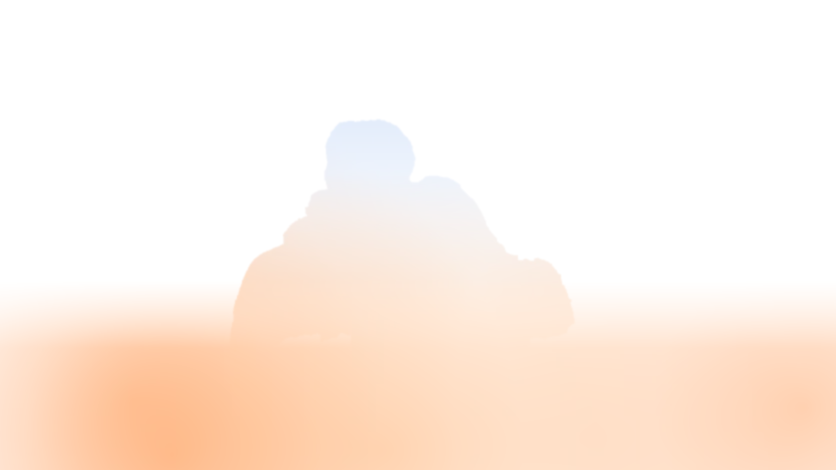
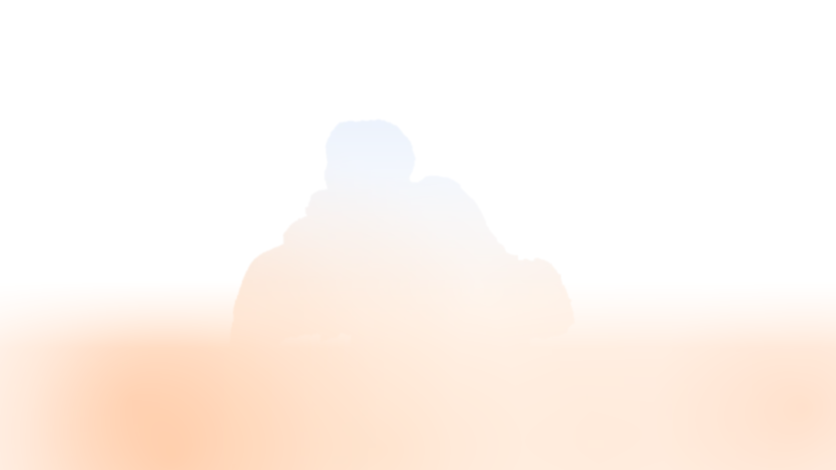
Lá thư bay vụt qua thay vì đóng mở; làm dịu cảnh ngắm tuyết (tuyết, ánh nến, ánh ấm, giấy)
Claude-Session: https://claude.ai/code/session_018LWP6QAxse55v6Pm2E99MN

Changed region(s): [[0.0311, 0.7149, 0.5598, 1.0], [0.9019, 0.7745, 1.0, 0.9532]]

diff --git a/src/styles.css b/src/styles.css
@@ -835,7 +835,7 @@ canvas.mb-dancer, canvas.mb-shadow { position: absolute; }
 /* cảnh ngắm tuyết: tuyết, hơi nước, sao băng nằm sau kính (sau lưng hai người nhờ mặt nạ) */
 .snow-scene { animation: none; background: #0b1226; }
 .sw-img { position: absolute; inset: 0; width: 100%; height: 100%; user-select: none; pointer-events: none; }
-.sw-top { opacity: 0; transition: opacity 1s ease-in-out; }
+.sw-top { opacity: 0; transition: opacity 1.6s ease-in-out; }
 .sw-top.on { opacity: 1; }
 .sw-fx { position: absolute; inset: 0; pointer-events: none; -webkit-mask-size: 100% 100%; mask-size: 100% 100%; -webkit-mask-repeat: no-repeat; mask-repeat: no-repeat; }
 .sw-cv { position: absolute; left: 0; top: 0; width: 100%; height: 100%; pointer-events: none; }
@@ -847,25 +847,25 @@ canvas.mb-dancer, canvas.mb-shadow { position: absolute; }
 .snow-scene.lite .sw-fog { opacity: .85; }
 /* tắt đèn ở cảnh ngắm tuyết: phòng tối, chỉ còn ánh nến */
 .sw-flame { position: absolute; pointer-events: none; border-radius: 50%; opacity: 0; transition: opacity 1.1s ease;
-  background: radial-gradient(circle, rgba(255,196,110,.5) 0%, rgba(255,150,60,.2) 30%, rgba(255,120,40,0) 68%); }
+  background: radial-gradient(circle, rgba(255,196,110,.32) 0%, rgba(255,150,60,.12) 30%, rgba(255,120,40,0) 66%); }
 .lights-off .sw-flame { opacity: 1; animation: sw-flick 3.4s ease-in-out infinite; }
-@keyframes sw-flick { 0%,100% { opacity: .85 } 18% { opacity: 1 } 42% { opacity: .7 } 63% { opacity: .95 } 80% { opacity: .78 } }
+@keyframes sw-flick { 0%,100% { opacity: .9 } 20% { opacity: 1 } 45% { opacity: .82 } 65% { opacity: .96 } 82% { opacity: .86 } }
 .snow-scene .tr-lights { top: max(16px, env(safe-area-inset-top, 0px)); }
 
 /* chuyển cảnh kiểu lá thư: phong bì cỡ cả màn hình, thu nhỏ lúc bay, phóng lên 1 để che kín, nắp mở lên (xoay quanh mép trên), thân phong bì trượt xuống */
-.xf-letter { position: absolute; inset: 0; z-index: 12; pointer-events: none; overflow: hidden; visibility: var(--lv, hidden); }
+.xf-letter { position: absolute; inset: 0; z-index: 12; pointer-events: none; overflow: hidden; visibility: var(--lv, hidden); opacity: var(--lo, 1); }
 .xl-fly { position: absolute; inset: 0; perspective: 1800px; transform-origin: 50% 50%; transform: translate(var(--lx, 0vw), var(--ly, 0vh)) rotate(var(--lr, 0deg)) scale(var(--ls, 1)); }
 .xl-fly > * { position: absolute; inset: 0; }
 .xl-shadow { box-shadow: 0 5vmin 9vmin rgba(0,0,0,.55); opacity: var(--lsh, 0); }
 .xl-inside { transform: translateY(var(--lb, 0%));
   background: radial-gradient(ellipse at 50% 30%, rgba(255,214,150,.2), transparent 62%), repeating-linear-gradient(45deg, rgba(255,215,150,.07) 0 1.2vmin, transparent 1.2vmin 2.4vmin), linear-gradient(180deg, #7a2019, #5a130e); }
 .xl-body { transform: translateY(var(--lb, 0%)); clip-path: polygon(0 0, 50% 54%, 100% 0, 100% 100%, 0 100%);
-  background: linear-gradient(135deg, #f7ecd2, #eddbb0 58%, #e3cb99); }
+  background: radial-gradient(ellipse at 50% 55%, rgba(0,0,0,0) 40%, rgba(70,40,15,.28) 100%), linear-gradient(135deg, #e7d6ae, #dcc698 58%, #d1b883); }
 .xl-body::before { content: ""; position: absolute; inset: 0; background: linear-gradient(90deg, rgba(120,80,30,.0) 0, rgba(120,80,30,.0) 100%), linear-gradient(to bottom right, transparent 49.4%, rgba(110,70,25,.28) 50%, transparent 53%), linear-gradient(to bottom left, transparent 49.4%, rgba(110,70,25,.28) 50%, transparent 53%); }
 .xl-body::after { content: ""; position: absolute; inset: 2.6%; border: .18vmin solid rgba(190,140,60,.5); }
 .xl-flapw { transform-origin: 50% 0; transform: rotateX(var(--lf, 0deg)); transform-style: preserve-3d; }
-.xl-flap { position: absolute; inset: 0; clip-path: polygon(0 0, 100% 0, 50% 54%); background: linear-gradient(180deg, #f9efd8, #ecd9ad); backface-visibility: visible; }
-.xl-seal { position: absolute; left: 50%; top: 54%; width: 13vmin; height: 13vmin; transform: translate(-50%, -50%); border-radius: 50%; display: grid; place-items: center; font: 600 6.6vmin/1 var(--serif); color: #f6d9a0;
+.xl-flap { position: absolute; inset: 0; clip-path: polygon(0 0, 100% 0, 50% 54%); background: radial-gradient(ellipse at 50% 0%, rgba(0,0,0,0) 40%, rgba(70,40,15,.25) 100%), linear-gradient(180deg, #ead9b2, #dec99c); backface-visibility: visible; }
+.xl-seal { position: absolute; opacity: var(--lso, 1); left: 50%; top: 54%; width: 13vmin; height: 13vmin; transform: translate(-50%, -50%); border-radius: 50%; display: grid; place-items: center; font: 600 6.6vmin/1 var(--serif); color: #f6d9a0;
   background: radial-gradient(circle at 35% 30%, #e45c4c, #a8261c 62%, #6b130d); box-shadow: 0 .6vmin 1.4vmin rgba(0,0,0,.45), inset 0 0 0 .7vmin rgba(255,130,110,.22); }
 .xf-snow { visibility: var(--sv, hidden); pointer-events: var(--spe, none); }
 .xf-snow .sec-text, .xf-snow .tr-lights { opacity: var(--st, 0); }

diff --git a/src/scenes/WorldScroll.tsx b/src/scenes/WorldScroll.tsx
@@ -165,19 +165,19 @@ export default function WorldScroll() {
       const r = Math.min(1, Math.max(0, (y - (Y_CATS + HOLD3)) / SPAN3))
       const er = ease(r)
       const st = el.style
-      // chuyển cảnh kiểu lá thư (cây thông -> hai bé, hai bé -> ngắm tuyết): một lá thư bay tới, phóng lớn che kín màn hình, rồi mở ra để lộ cảnh mới.
+      // chuyển cảnh kiểu lá thư (cây thông -> hai bé, hai bé -> ngắm tuyết): một lá thư bay tới, phóng lớn che kín màn hình, rồi bay vụt qua máy quay (phóng tiếp, mờ dần) để lộ cảnh mới. Không đóng mở thư.
       // lt chạy 0..1 theo thanh cuộn của lần chuyển đang diễn ra (hai lần chuyển không bao giờ chồng nhau).
       const lt = r > 0.003 ? r : p
-      const a1 = ease(smooth(0, 0.42, lt)), a2 = ease(smooth(0.4, 0.64, lt)), a3 = ease(smooth(0.64, 0.84, lt)), a4 = ease(smooth(0.8, 1, lt))
+      const a1 = ease(smooth(0, 0.42, lt)), a2 = ease(smooth(0.4, 0.64, lt)), a5 = ease(smooth(0.64, 1, lt))
       const NEXT = 0.64 // lúc lá thư vừa che kín màn hình: đổi cảnh bên dưới
       fx.current = { p: 0, R: 0, cx: 0, cy: 0, on: false }
       st.setProperty('--lv', lt > 0.003 && lt < 0.997 && !calm ? 'visible' : 'hidden')
-      st.setProperty('--lx', `${((1 - a1) * 62).toFixed(2)}vw`)
-      st.setProperty('--ly', `${((1 - a1) * 44 - Math.sin(Math.PI * a1) * 16).toFixed(2)}vh`)
-      st.setProperty('--lr', `${((1 - a1) * 24).toFixed(2)}deg`)
-      st.setProperty('--ls', (0.17 + 0.07 * a1 + 0.82 * a2).toFixed(4))
-      st.setProperty('--lf', `${(-180 * a3).toFixed(2)}deg`)
-      st.setProperty('--lb', `${(a4 * 108).toFixed(2)}%`)
+      st.setProperty('--lx', `${((1 - a1) * 62 - a5 * 5).toFixed(2)}vw`)
+      st.setProperty('--ly', `${((1 - a1) * 44 - Math.sin(Math.PI * a1) * 16 - a5 * 9).toFixed(2)}vh`)
+      st.setProperty('--lr', `${((1 - a1) * 24 - a5 * 9).toFixed(2)}deg`)
+      st.setProperty('--ls', (0.17 + 0.07 * a1 + 0.82 * a2 + 2.6 * a5).toFixed(4))
+      st.setProperty('--lo', (1 - smooth(0.72, 1, lt)).toFixed(3))
+      st.setProperty('--lso', (1 - smooth(0.62, 0.8, lt)).toFixed(3))
       st.setProperty('--lsh', (1 - a2).toFixed(3))
       st.setProperty('--tz', '1')
       st.setProperty('--to', p < NEXT || calm && p < 0.5 ? '1' : '0')
@@ -291,7 +291,7 @@ export default function WorldScroll() {
         <div className={`xf-layer xf-tree${seen.tree ? '' : ' idle'}`}><Tree paused={!seen.tree} /></div>
         <div className={`xf-layer xf-cats${seen.cats ? '' : ' idle'}`}><Cats active={seen.cats} /></div>
         <div className={`xf-layer xf-snow${seen.snow ? '' : ' idle'}`}><SnowWatch active={seen.snow} /></div>
-        {/* lá thư dùng chung cho hai lần chuyển cảnh: bay tới, phóng lớn che kín màn hình, nắp mở lên, phong bì trượt xuống để lộ cảnh mới */}
+        {/* lá thư dùng chung cho hai lần chuyển cảnh: bay tới, phóng lớn che kín màn hình, rồi bay vụt qua máy quay để lộ cảnh mới */}
         <div className="xf-letter" aria-hidden>
           <div className="xl-fly">
             <i className="xl-shadow" />

diff --git a/src/scenes/SnowWatch.tsx b/src/scenes/SnowWatch.tsx
@@ -9,7 +9,7 @@ import { lights, useLights } from '../lib/lights'
 import { SNOW as L, LM } from './snowLayout'
 
 const POSE_HOLD = 6500
-const FADE = 1000
+const FADE = 1600
 
 /** Tuyết rơi sau kính: ba lớp xa gần, trôi theo gió chung của cả trang. Chỉ vẽ trong các ô kính. */
 function SnowFall({ active }: { active: boolean }) {
@@ -22,23 +22,23 @@ function SnowFall({ active }: { active: boolean }) {
     ctx.scale(K, K)
     ctx.beginPath(); L.panes.forEach(([x, y, w, h]) => ctx.rect(x, y, w, h)); ctx.clip()
     if (!active) return
-    const n = isLite() ? 60 : 150
+    const n = isLite() ? 50 : 105
     const fl = Array.from({ length: n }, () => ({ x: Math.random() * L.w, y: Math.random() * L.h, z: Math.random() ** 1.6, ph: Math.random() * 6.28 }))
     let raf = 0, last = performance.now()
     const frame = (t: number) => {
       const dt = Math.min(0.05, (t - last) / 1000); last = t
       ctx.clearRect(0, 0, L.w, L.h)
       for (const f of fl) {
-        f.y += (26 + f.z * 96) * dt
+        f.y += (20 + f.z * 66) * dt
         f.x += (weather.sway(t, f.ph) * (10 + f.z * 38) + Math.sin(t / 900 + f.ph) * 6 * f.z) * dt
         if (f.y > 660) { f.y = -8; f.x = Math.random() * L.w }
         if (f.x > L.w + 10) f.x = -10; else if (f.x < -10) f.x = L.w + 10
-        const r = 1 + f.z * 3.6
-        ctx.globalAlpha = 0.45 + f.z * 0.5
+        const r = 0.9 + f.z * 2.5
+        ctx.globalAlpha = 0.38 + f.z * 0.4
         if (f.z > 0.78) {
-          const g = ctx.createRadialGradient(f.x, f.y, 0, f.x, f.y, r * 1.8)
-          g.addColorStop(0, '#fff'); g.addColorStop(0.5, 'rgba(240,246,255,.7)'); g.addColorStop(1, 'rgba(235,242,255,0)')
-          ctx.fillStyle = g; ctx.beginPath(); ctx.arc(f.x, f.y, r * 1.8, 0, 6.283); ctx.fill()
+          const g = ctx.createRadialGradient(f.x, f.y, 0, f.x, f.y, r * 1.5)
+          g.addColorStop(0, 'rgba(255,255,255,.85)'); g.addColorStop(0.5, 'rgba(240,246,255,.45)'); g.addColorStop(1, 'rgba(235,242,255,0)')
+          ctx.fillStyle = g; ctx.beginPath(); ctx.arc(f.x, f.y, r * 1.5, 0, 6.283); ctx.fill()
         } else { ctx.fillStyle = '#fff'; ctx.beginPath(); ctx.arc(f.x, f.y, r, 0, 6.283); ctx.fill() }
       }
       ctx.globalAlpha = 1
@@ -318,7 +318,7 @@ export default function SnowWatch({ active }: { active: boolean }) {
             onPointerMove={(e) => { if (e.pointerType === 'mouse' || e.buttons || e.pointerType === 'touch') move(e) }}
             onPointerLeave={() => { prev.current = null }} onPointerUp={() => { prev.current = null }} />
 
-          <LitSpot src={L.poses[0].src} w={L.w} h={L.h} poly={L.lamp} on={lampHov || pulse === 0} strength={0.8} />
+          <LitSpot src={L.poses[0].src} w={L.w} h={L.h} poly={L.lamp} on={lampHov || pulse === 0} strength={0.5} />
           {L.flames.map(([x, y, k], i) => <i key={i} className="sw-flame" style={{ left: x - 260 * k, top: y - 260 * k, width: 520 * k, height: 520 * k, animationDelay: `-${i * 0.7}s` }} />)}
           {active && <Dust w={L.w} h={L.h} />}
 

diff --git a/tools/snow/bake-light.py b/tools/snow/bake-light.py
@@ -32,11 +32,11 @@ for n in ['1','2']:
     dark=np.zeros((H,W,4),np.uint8); dark[...,0]=9; dark[...,1]=4; dark[...,2]=2; dark[...,3]=np.clip(D*255,0,255)
     Image.fromarray(dark,'RGBA').save(A+f'snow-dark-{n}.webp',quality=80,method=6)
     # ánh ấm
-    cool_a=np.interp(Y,[200,430,640],[.3,.1,0]); cool_c=np.broadcast_to(np.array([150,185,240],np.float32),(H,W,3)).copy()
-    ell_a=np.interp(d_lit,[0,.5,1],[.34,.2,0]); ell_c=np.broadcast_to(np.array([255,150,65],np.float32),(H,W,3)).copy()
+    cool_a=np.interp(Y,[200,430,640],[.2,.07,0]); cool_c=np.broadcast_to(np.array([150,185,240],np.float32),(H,W,3)).copy()
+    ell_a=np.interp(d_lit,[0,.5,1],[.2,.12,0]); ell_c=np.broadcast_to(np.array([255,150,65],np.float32),(H,W,3)).copy()
     cand=[]
     for fx,fy,k in flames:
-        r=np.hypot(X-fx,Y-fy); a=np.interp(r,[0,300*k,700*k],[.4*k,.16*k,0]); cand.append(a)
+        r=np.hypot(X-fx,Y-fy); a=np.interp(r,[0,300*k,700*k],[.26*k,.1*k,0]); cand.append(a)
     warm_c=np.array([255,140,60],np.float32)
     # lớp trên người: cool (dưới) -> ellipse -> nến
     c,a=cool_c,cool_a

diff --git a/HANDOFF.md b/HANDOFF.md
@@ -144,7 +144,8 @@ npx tsc -b        # kiểm tra kiểu
 - Mặt nạ làm bằng script ngoài repo; muốn đổi ảnh thì tách lại bằng grabCut (xem cách làm ở phần mèo).
 
 ### Tắt đèn ở cảnh ngắm tuyết + chuyển cảnh mèo -> ngắm tuyết (đã làm lại)
-- Chuyển cảnh từ cây thông trở xuống (cây thông -> hai bé, hai bé -> ngắm tuyết) là **lá thư** (đã thay khối xoay giống PowerPoint rồi thay luôn ánh nến từ góc): một phong bì cỡ cả màn hình, thu nhỏ lúc bay tới (cong), phóng lên che kín màn hình, nắp mở lên (xoay quanh mép trên, dấu sáp đỏ xoay theo), thân phong bì trượt xuống để lộ cảnh mới. Một phần tử dùng chung (`.xf-letter`, các lớp `.xl-*`; KHÔNG dùng tiền tố `lt-` vì đã có `.lt-*` của lá thư ở cảnh khác). Biến: `--lx --ly --lr --ls --lf --lb --lsh --lv`, tính trong `apply()` của `WorldScroll.tsx` từ `lt` (= `p` hoặc `r`); cảnh bên dưới đổi tức thì tại `NEXT = 0.64`, lúc phong bì vừa che kín. Hằng số: `HOLD3`, `SPAN3`, `Y_CATS`, `Y_SNOW`. Giảm chuyển động: bỏ lá thư, đổi cảnh ở nửa chặng. Cảnh cây thông và mèo không còn phóng to / mặt nạ vòng kẹo; `--R` luôn rất lớn.
+- Chuyển cảnh từ cây thông trở xuống (cây thông -> hai bé, hai bé -> ngắm tuyết) là **lá thư bay vụt qua** (Long KHÔNG muốn đóng mở thư): một phong bì cỡ cả màn hình, thu nhỏ lúc bay tới (cong, từ dưới phải), phóng lên che kín màn hình, cảnh bên dưới đổi tức thì lúc vừa che kín (`NEXT = 0.64`), rồi phong bì phóng tiếp ~3,4 lần, trôi lệch và mờ dần như bay vụt qua máy quay; dấu sáp mờ sớm hơn. Giấy màu dịu (không chói khi che kín màn hình). Một phần tử dùng chung `.xf-letter` (các lớp `.xl-*`; KHÔNG dùng tiền tố `lt-` vì đã có `.lt-*` ở cảnh khác). Biến `--lx --ly --lr --ls --lo --lso --lsh --lv` tính trong `apply()` của `WorldScroll.tsx` từ `lt` (= `p` hoặc `r`). Hằng số: `HOLD3`, `SPAN3`, `Y_CATS`, `Y_SNOW`. Giảm chuyển động: bỏ lá thư, đổi cảnh ở nửa chặng. Nắp phong bì vẫn còn trong mã nhưng luôn đóng.
+- Cảnh ngắm tuyết đã làm dịu: tuyết ít và nhỏ hơn, rơi chậm hơn; ánh ấm trên người và ánh nến nhẹ hơn; chuyển dáng ngồi chậm (1,6 s); vầng sáng đèn bàn nhẹ hơn.
 - Thanh chấm thứ tư "Ngắm tuyết", bảng `stopsAt` (tự trượt trên điện thoại) và sự kiện `olcw:goto` (chỉ số 3).
 - Tắt đèn: dùng chung `lights`. Bản đồ tối và ánh ấm được **dựng sẵn thành ảnh WebP** (`snow-dark-*.webp`, `snow-warm-*.webp`, khung 836x470, kéo giãn ra khung ảnh) bằng `python3 tools/snow/bake-light.py` (cần numpy, opencv-python-headless, pillow; hình cắt hai người `tools/snow/cut-*.png`); chỉ đổi `opacity` khi bật/tắt nên không có mặt nạ CSS phải tính lại mỗi khung (bản trước dùng `mask-composite` + `clip-path` nhiều lớp, nghi là nguyên nhân nháy đen trên máy thật). Giải mã sẵn mọi ảnh phụ khi vào cảnh. Cảnh cuối tắt hai lớp `soft-light` toàn màn hình của `.xf-sticky` (`data-scene="snow"`). Ánh nến `.sw-flame` vẫn chập chờn (nhẹ). Ánh sáng theo MỘT trường sáng chung hình elip (`LIT` trong `SnowWatch.tsx`) cho cả đồ vật lẫn hai người, cộng quầng sát nến: nến nằm phía trước lưng họ nên cả lưng, vai, chăn, bàn được chiếu, sáng nhất ở phía dưới và nhạt dần lên đầu (KHÔNG còn một đốm sáng quanh nến). Cây thông và đèn bàn bên trái tắt hẳn (lớp tối riêng). Ánh xanh lạnh của tuyết phủ lên đỉnh đầu và vai.
 - Chưa có: ảnh dọc cho điện thoại, âm thanh cho cảnh này, nút loa trong cảnh này.
